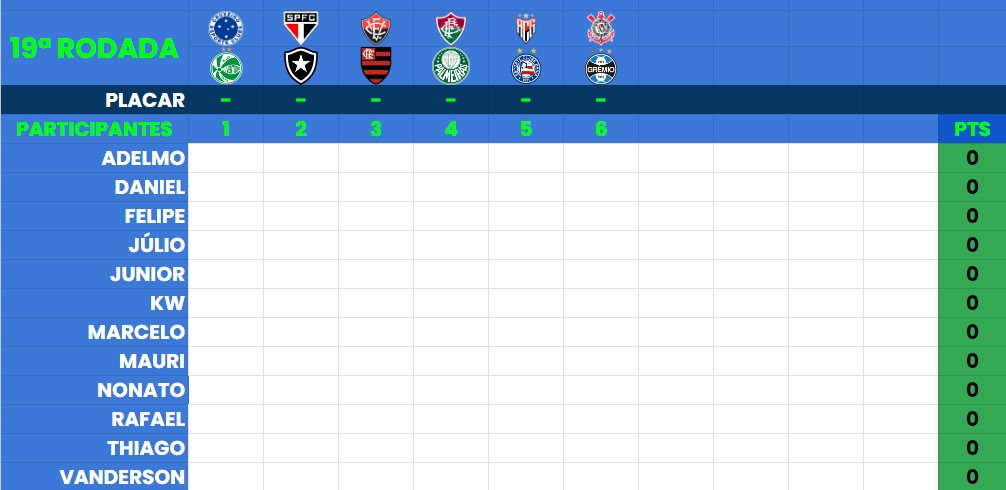
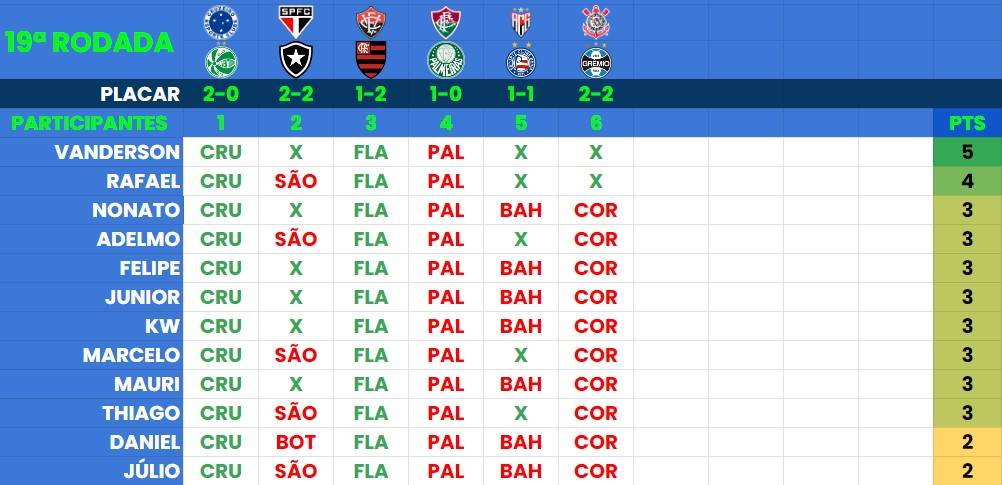
U

diff --git a/index.html b/index.html
@@ -51,12 +51,12 @@
           <img src="./assets/Round19.jpg" alt="Logo do Campeonato Brasileiro 2022" />
         </div>
         <div class="text">
-          <h2 class="title"><a href="./palpites_19.html">Mercado aberto: rodada #19 terá apenas seis jogos válidos; mercado fecha quarta (24/07), às 18h59</a>
+          <h2 class="title"><a href="./predictor.html">Vanderson vence a rodada 19 do bolão</a>
           </h2>
           <p>
-            Internacional x Fortaleza, Vasco x Cuiabá, Athletico-PR x Atlético-MG e Criciúma x Bragantino não vão valer para o game
+            Adelmo e Júnior empata com três pontos cada e seguem na disputa.
           </p>
-          <a class="button" href="./palpites_19.html">Palpitem na 19ª Rodada</a>
+          <a class="button" href="./predictor.html">Resumo da 19ª Rodada</a>
         </div>
       </div>
     </section>
@@ -177,7 +177,7 @@
           <div class="content">
             <h2 class="rank"><small>#</small>1</h2>
             <h4>Júnior</h4>
-            <p>90 Pontos</p>
+            <p>93 Pontos</p>
           </div>
         </div>
         <div class="list">
@@ -187,7 +187,7 @@
           <div class="content">
             <h2 class="rank"><small>#</small>2</h2>
             <h4>Adelmo</h4>
-            <p>89 Pontos</p>
+            <p>92 Pontos</p>
           </div>
         </div>
         <div class="list">
@@ -197,7 +197,7 @@
           <div class="content">
             <h2 class="rank"><small>#</small>3</h2>
             <h4>KW</h4>
-            <p>87 Pontos</p>
+            <p>90 Pontos</p>
           </div>
         </div>
         <div class="list">
@@ -207,7 +207,7 @@
           <div class="content">
             <h2 class="rank"><small>#</small>4</h2>
             <h4>Marcelo</h4>
-            <p>86 Pontos</p>
+            <p>89 Pontos</p>
           </div>
         </div>
         <div class="list">
@@ -217,7 +217,7 @@
           <div class="content">
             <h2 class="rank"><small>#</small>5</h2>
             <h4>Thiago</h4>
-            <p>85 Pontos</p>
+            <p>88 Pontos</p>
           </div>
         </div>
         <div class="list">
@@ -227,7 +227,7 @@
           <div class="content">
             <h2 class="rank"><small>#</small>6</h2>
             <h4>Mauri</h4>
-            <p>85 Pontos</p>
+            <p>88 Pontos</p>
           </div>
         </div>
         <div class="list">
@@ -237,7 +237,7 @@
           <div class="content">
             <h2 class="rank"><small>#</small>7</h2>
             <h4>Daniel</h4>
-            <p>83 Pontos</p>
+            <p>85 Pontos</p>
           </div>
         </div>
         <div class="list">
@@ -247,7 +247,7 @@
           <div class="content">
             <h2 class="rank"><small>#</small>8</h2>
             <h4>Júlio César</h4>
-            <p>83 Pontos</p>
+            <p>85 Pontos</p>
           </div>
         </div>
         <div class="list">
@@ -257,7 +257,7 @@
           <div class="content">
             <h2 class="rank"><small>#</small>9</h2>
             <h4>Felipe</h4>
-            <p>80 Pontos</p>
+            <p>83 Pontos</p>
           </div>
         </div>
         <div class="list">
@@ -267,17 +267,7 @@
           <div class="content">
             <h2 class="rank"><small>#</small>10</h2>
             <h4>Nonato</h4>
-            <p>80 Pontos</p>
-          </div>
-        </div>
-        <div class="list">
-          <div class="imgBx">
-            <img src="./assets/fotos/palmeiras.png">
-          </div>
-          <div class="content">
-            <h2 class="rank"><small>#</small>11</h2>
-            <h4>Rafael</h4>
-            <p>78 Pontos</p>
+            <p>83 Pontos</p>
           </div>
         </div>
         <div class="list">
@@ -285,9 +275,19 @@
             <img src="./assets/fotos/fortaleza.png">
           </div>
           <div class="content">
-            <h2 class="rank"><small>#</small>12</h2>
+            <h2 class="rank"><small>#</small>11</h2>
             <h4>Vanderson</h4>
-            <p>78 Pontos</p>
+            <p>83 Pontos</p>
+          </div>
+        </div>
+        <div class="list">
+          <div class="imgBx">
+            <img src="./assets/fotos/palmeiras.png">
+          </div>
+          <div class="content">
+            <h2 class="rank"><small>#</small>12</h2>
+            <h4>Rafael</h4>
+            <p>82 Pontos</p>
           </div>
         </div>
       </div>

diff --git a/predictor.html b/predictor.html
@@ -51,6 +51,8 @@
     <div class="container mt-3"><br><br><br>
       <h2 style="text-align: center; color: cornflowerblue; font-weight: bold;">Todas as Rodadas abaixo</h2>
     </div>
+    <h2 style="text-align: center; color: cornflowerblue; font-weight: bold;">19ª Rodada</h2>
+    <img src="./assets/Round19.jpg" alt="">
     <h2 style="text-align: center; color: cornflowerblue; font-weight: bold;">18ª Rodada</h2>
     <img src="./assets/Round18.jpg" alt="">
     <h2 style="text-align: center; color: cornflowerblue; font-weight: bold;">17ª Rodada</h2>
